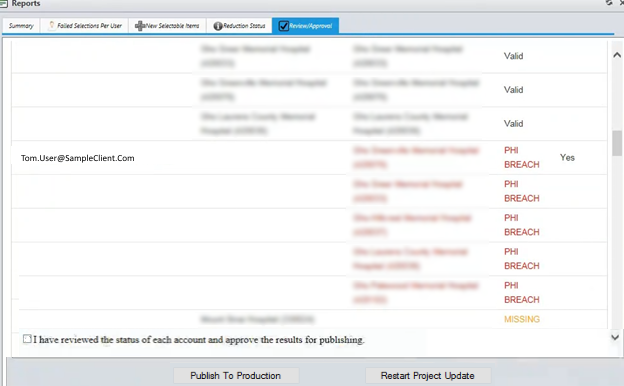
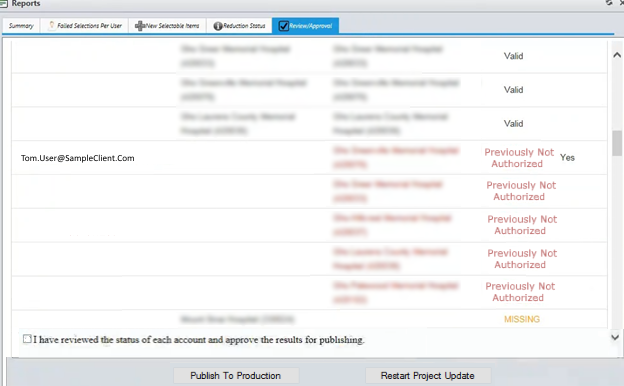
Updated user guide doc word-age and image for changed PHI BREACH label
Former-commit-id: 4f5305de62cbe681a9716c08c353ee82816b3418

diff --git a/WebApps/MillFrame/UserGuidesMasterVersions/PRM Client Publisher Console User Guide.md b/WebApps/MillFrame/UserGuidesMasterVersions/PRM Client Publisher Console User Guide.md
@@ -1,4 +1,4 @@
-___
+___
 
 ##**PRM Release MillFrame 4.1.0**
 
@@ -154,12 +154,13 @@ Click on **Take Offline**. A box will let the user know that using this feature 
 ![](Images/PRM_Client_Publisher_Console_User_Guide/image15.png ""){width=100% height=auto}\
 
 
-##Prevention of ePHI Breaches
 
-Periodically when updating report content, there may be scenarios due to complex data changes and/or reduction failures where ePHI data could be accessible to unintended users after updating. To prevent this, the Client Publisher Console requires the reduction report to be reviewed and acknowledged (review checkbox) before it will allow the operator of the application to push data to the production server. It is important to note that ePHI data is not made live to the end user until the “Push to Production” button is clicked.
+##Prevention of Unauthorized Access
 
-This possibility is evaluated after reduction and in the final “Review/Approval” report any data that will be inappropriately accessible to end-users is signified by the red “PHI BREACH” notification for the user’s account. The system will attempt to provide information as to the specifics of the inappropriate data by displaying the data contained in the report that is flagged as should not be shown. For the sample report below user Tom User’s report contains information that was not part of the original selections and should not be displayed to the user.
+Periodically when updating report content, there may be scenarios due to complex data changes and/or reduction failures where sensitive data could be accessible to unintended users after updating. To prevent this, the Client Publisher Console requires the reduction report to be reviewed and acknowledged (review checkbox) before it will allow the operator of the application to push data to the production server. It is important to note that sensitive data is not made live to the end user until the “Push to Production” button is clicked.
+
+This possibility is evaluated after reduction and in the final “Review/Approval” report any data that will be inappropriately accessible to end-users is signified by the red “Previously Not Authorized” notification for the user’s account. The system will attempt to provide information as to the specifics of the inappropriate data by displaying the data contained in the report that is flagged as should not be shown. For the sample report below user Tom User’s report contains information that was not part of the original selections and should not be displayed to the user.
 
 ![](Images/PRM_Client_Publisher_Console_User_Guide/image16.png ""){width=100% height=auto}\
 
-If the review checkbox is checked and the **Publish to Production** button is clicked, this report would be **published to the server**. The user - Tom User would be able to see PHI that he should not see. This would be a **PHI Breach** scenario. However, until the Publish button is pushed, no leakage of PHI content has occurred as a result of this processing.
+If the review checkbox is checked and the **Publish to Production** button is clicked, this report would be **published to the server**. The user - Tom User would be able to see sensitive information that he should not see. However, until the Publish button is pushed, no leakage of sensitive content has occurred as a result of this processing.
